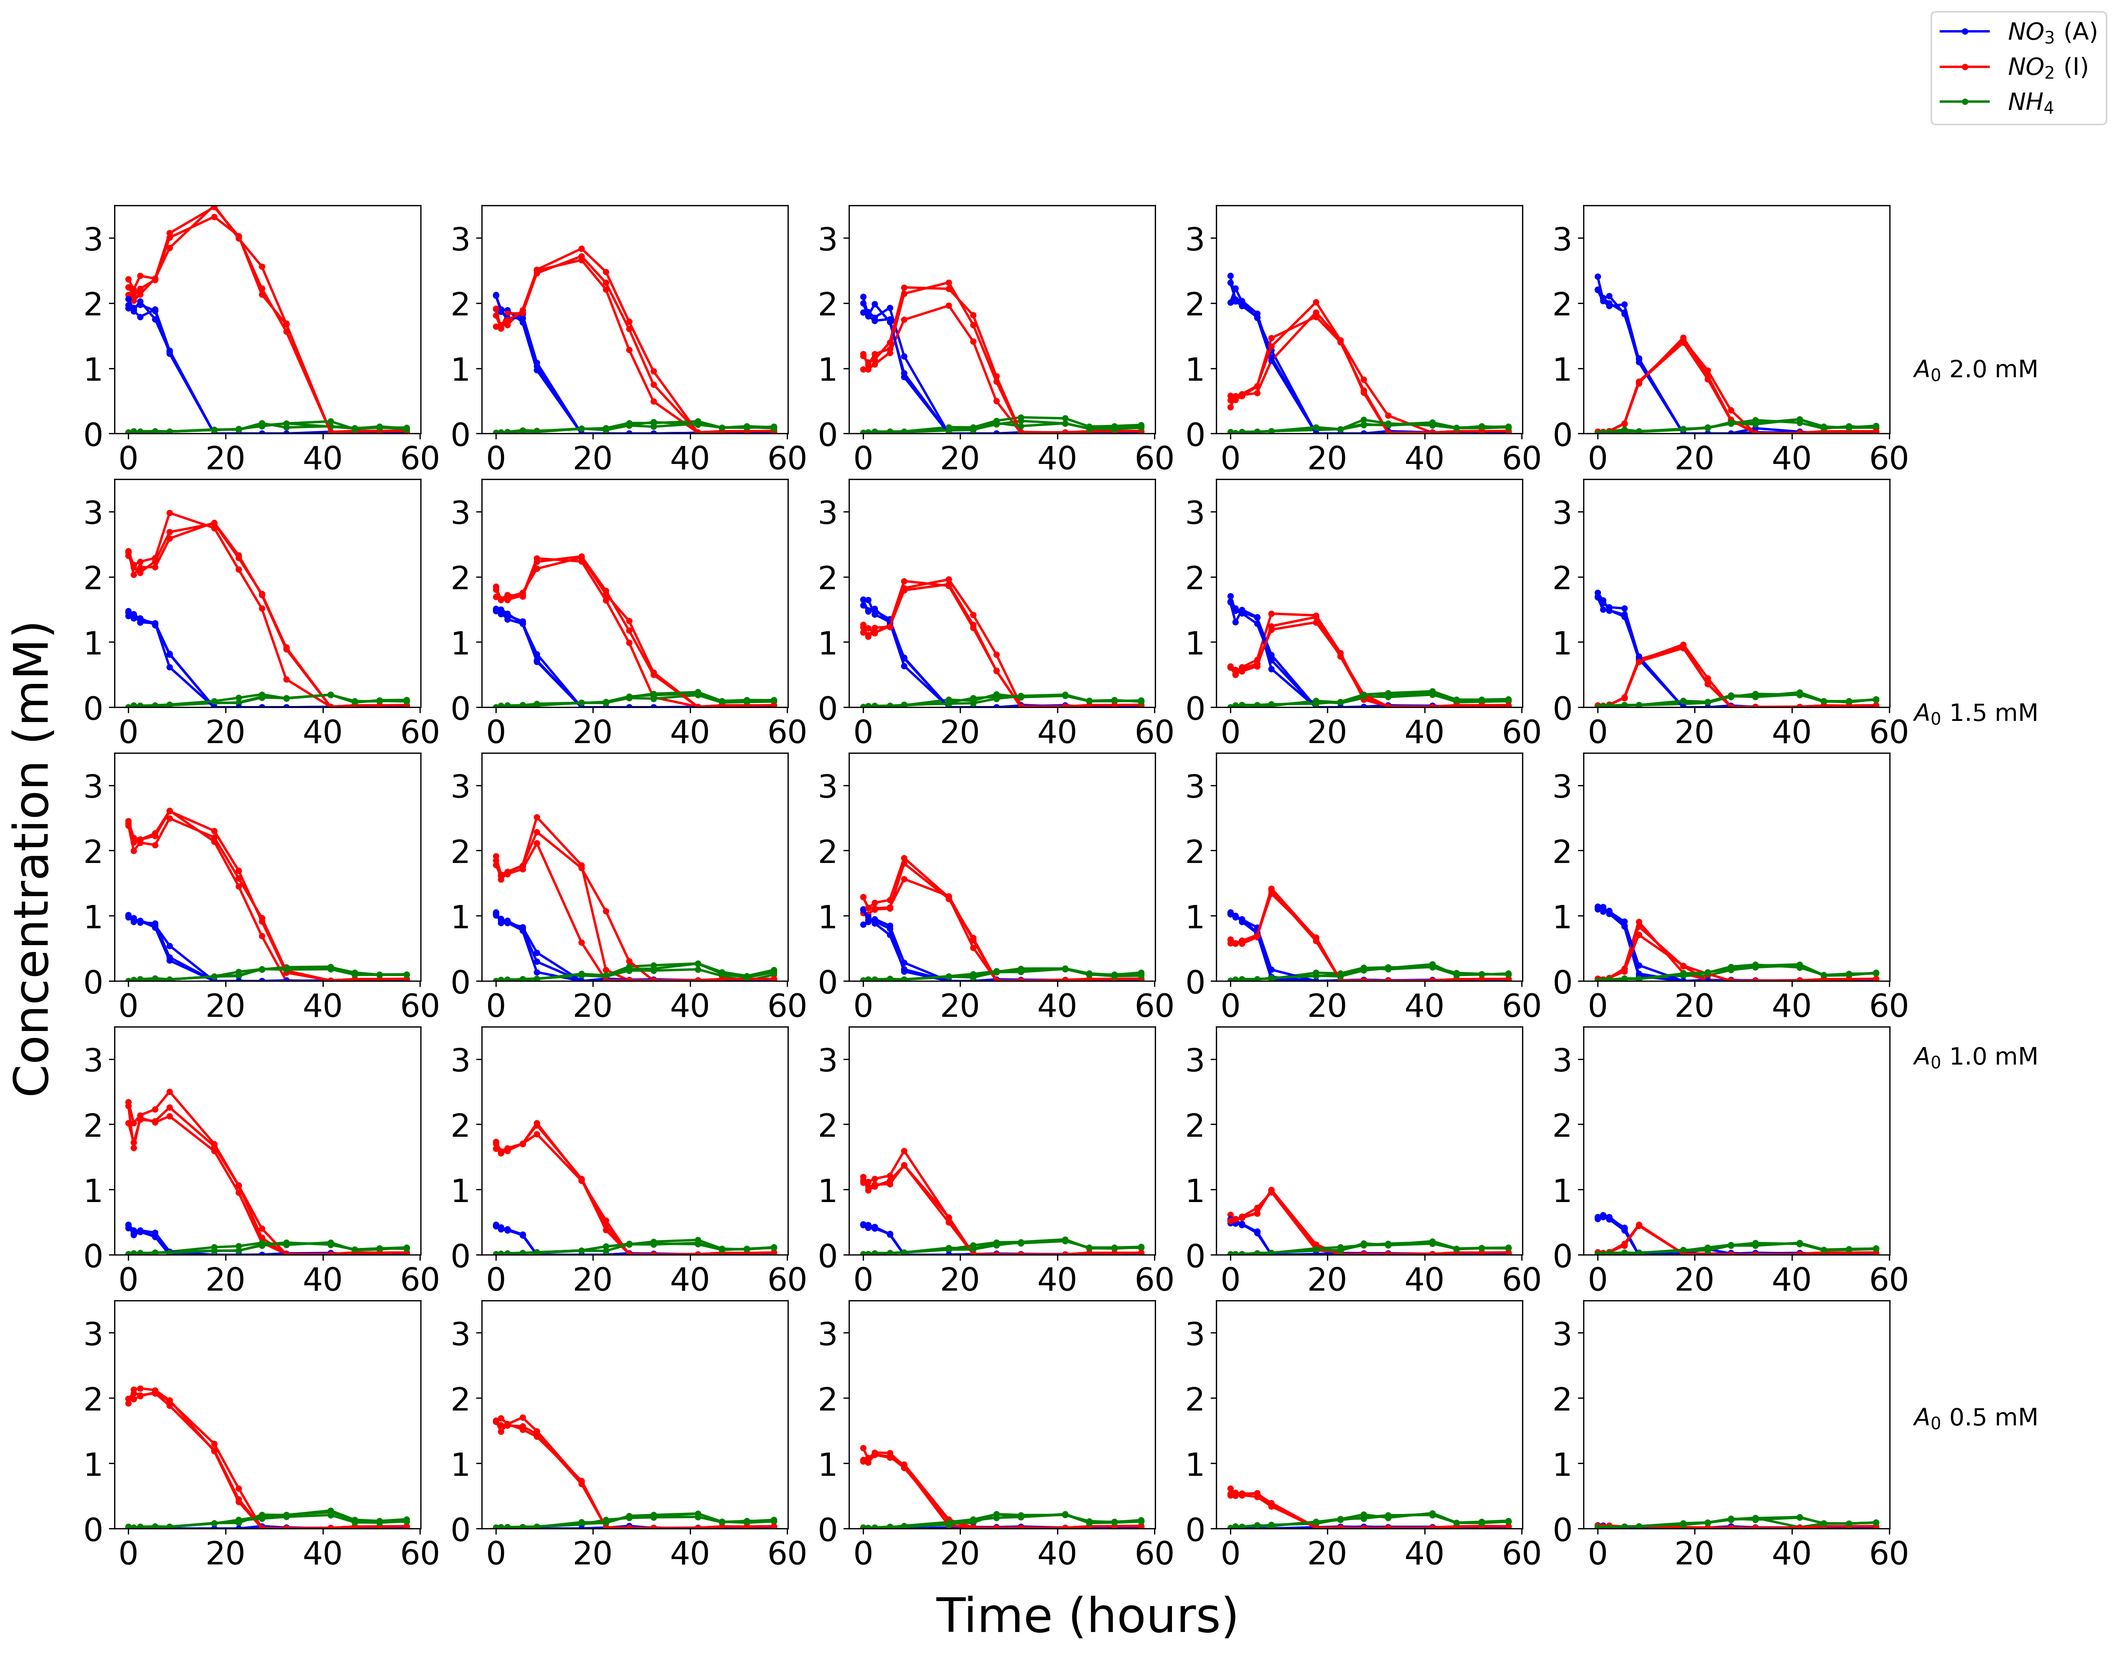
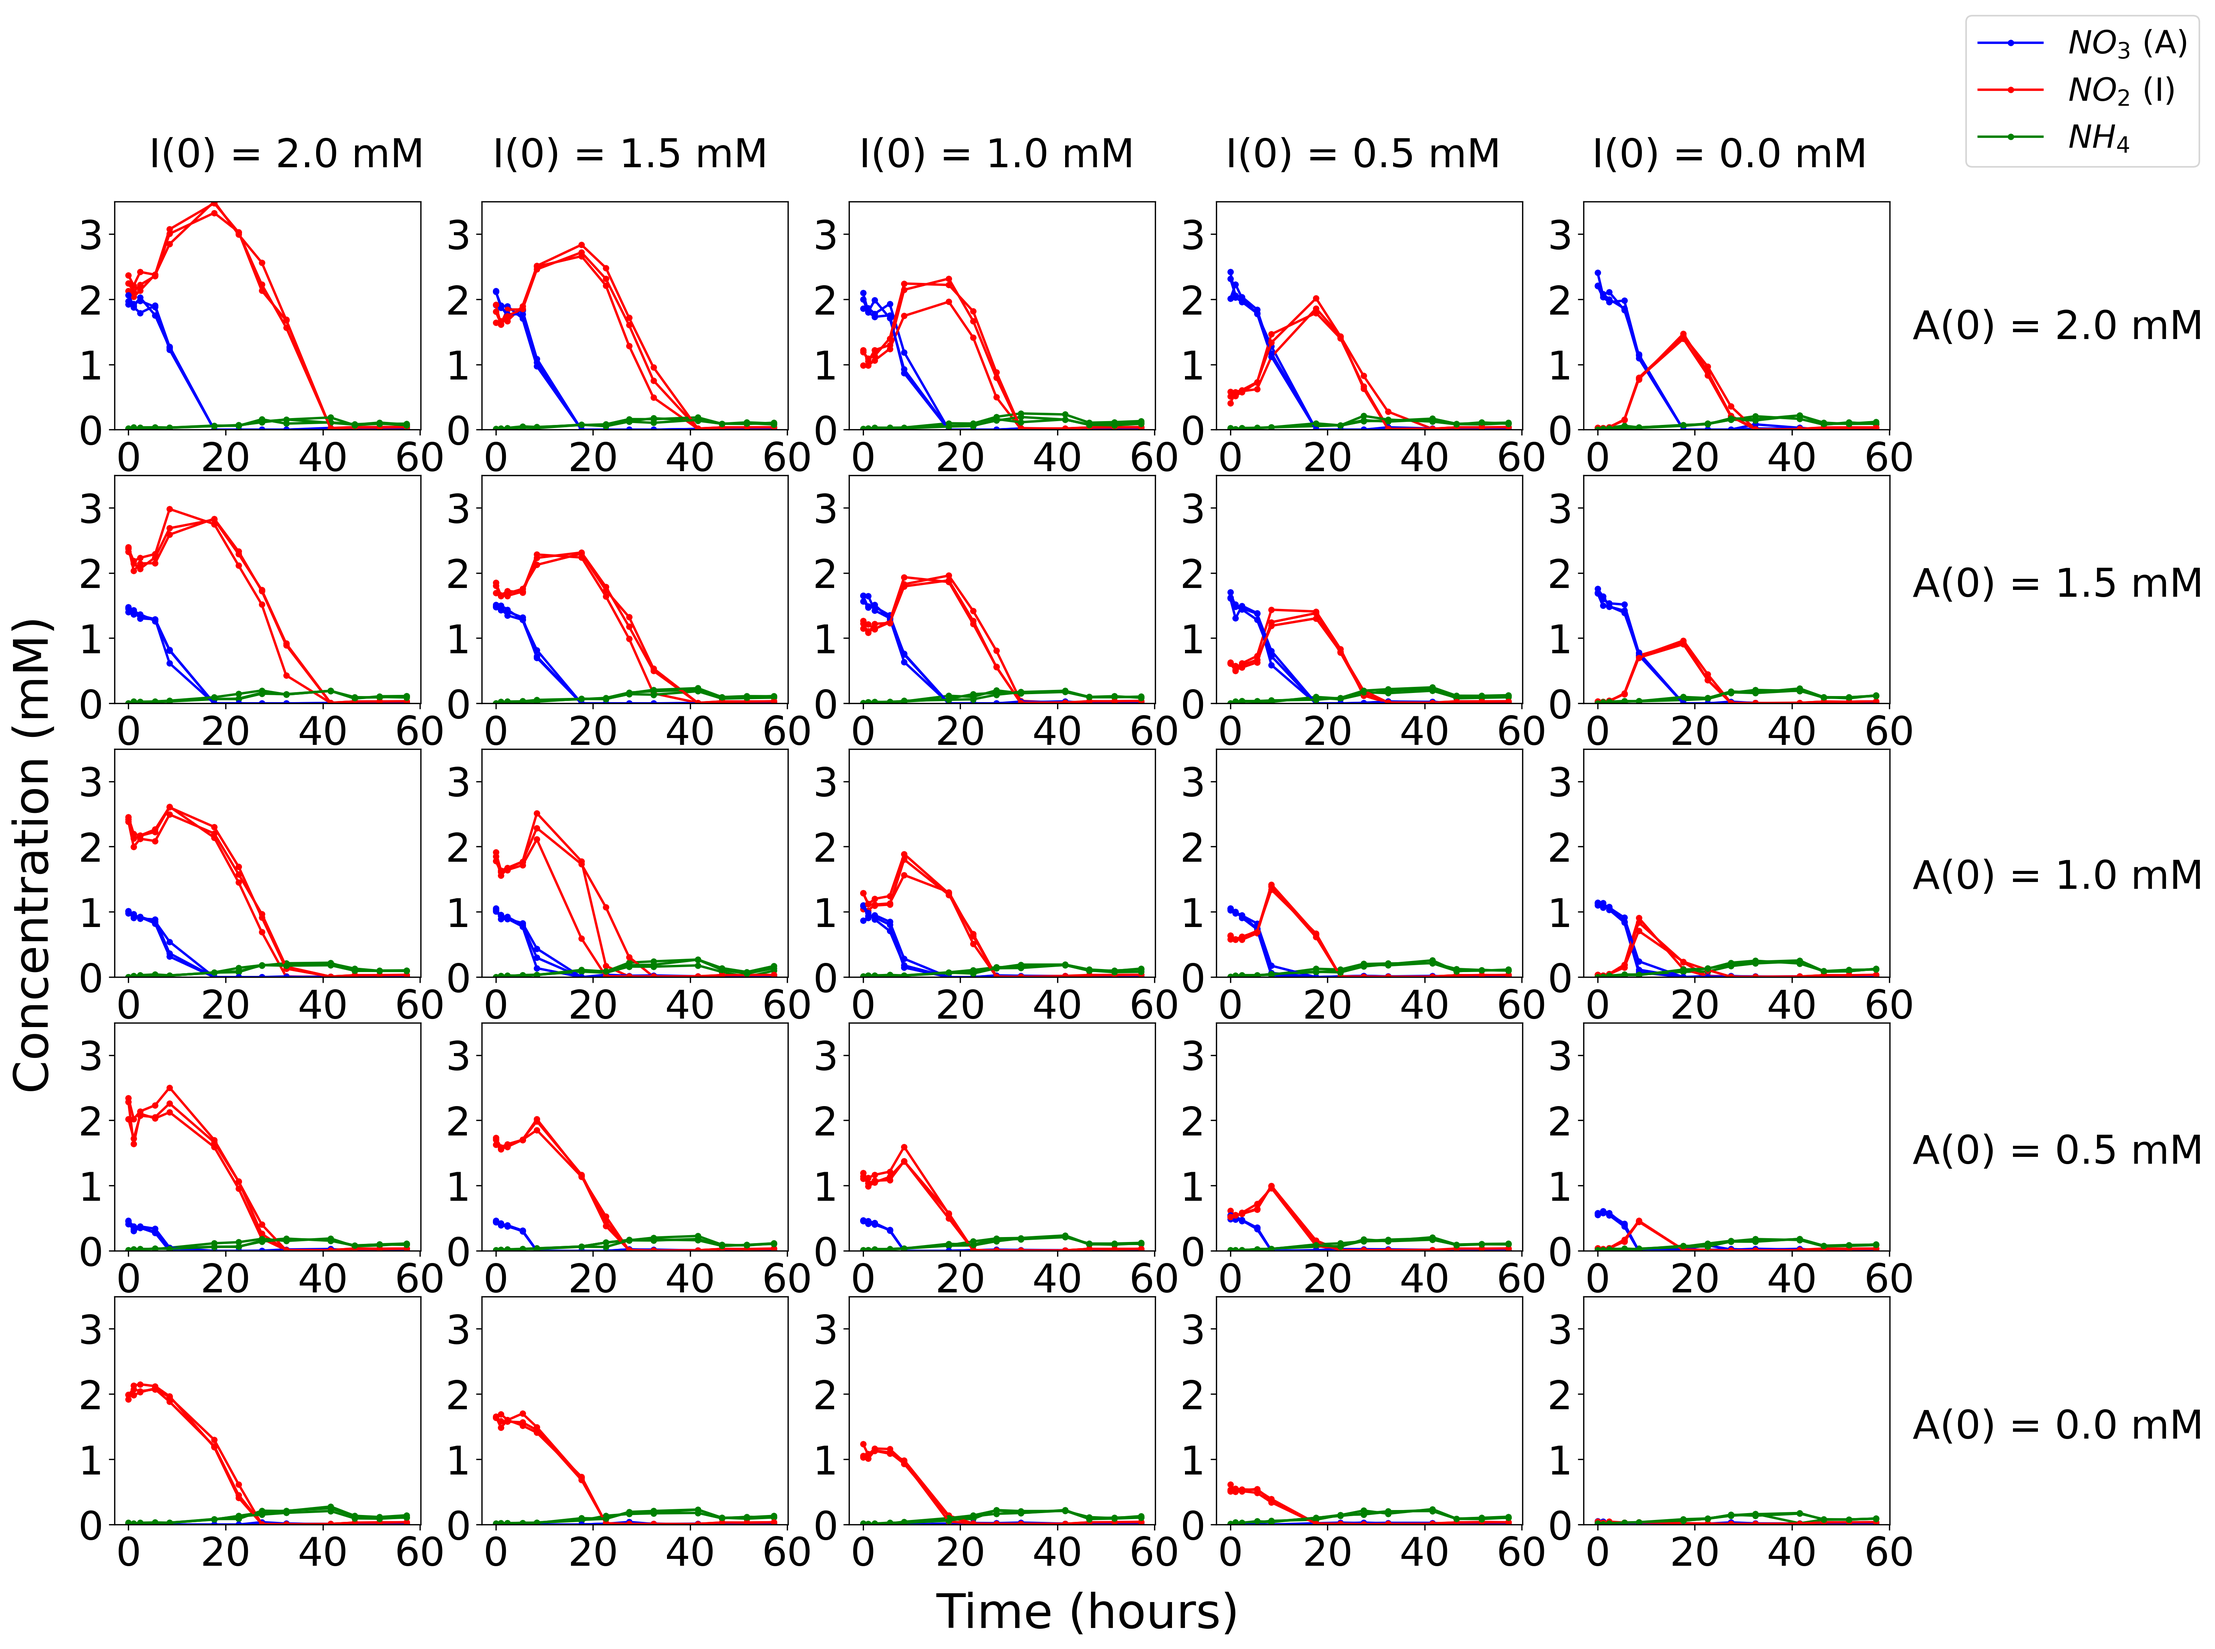
.

diff --git a/plot_no3_no2_nh4_chl01_20250414.py b/plot_no3_no2_nh4_chl01_20250414.py
@@ -12,46 +12,82 @@ no2_chl0_cons = pd.read_csv(f'concentrations/no2_chl0_cons.csv', index_col=0)
 no3_chl1_evap = pd.read_csv(f'concentrations/no3_chl1_evap.csv', index_col=0)
 no2_chl1_evap = pd.read_csv(f'concentrations/no2_chl1_evap.csv', index_col=0)
 no3_chl1_evap = pd.read_csv(f'concentrations/no3_chl1_evap.csv', index_col=0)
+nh4_chl1_evap = pd.read_csv(f'concentrations/nh4_chl1_evap.csv', index_col=0)
 no3_chl1_cons = pd.read_csv(f'concentrations/no3_chl1_cons.csv', index_col=0)
 no2_chl1_cons = pd.read_csv(f'concentrations/no2_chl1_cons.csv', index_col=0)
-times = no3_chl0_evap.columns.astype(float).tolist()
+times_chl0 = no3_chl0_evap.columns.astype(float).tolist()
+times_chl1 = no3_chl1_evap.columns.astype(float).tolist()
 
-# no3_no2_nh4_chl0 vs time, all conditions without carbon addition
-rows = ['A01', 'A02', 'A03', 'A04', 'A05', 'A06', 'A07', 'A08', 'A09', 'A10', 'A11', 'A12', 'B01', 'B02', 'B03', 'B04', 'B05', 'B06', 'B07', 'B08', 'B09', 'B10', 'B11', 'B12', 'C01', 'C02', 'C03', 'C04', 'C05', 'C06', 'C07', 'C08', 'C09', 'C10', 'C11', 'C12', 'D01', 'D02', 'D03', 'D04', 'D05', 'D06', 'D07', 'D08', 'D09', 'E01', 'E02', 'E03', 'E04', 'E05', 'E06', 'E07', 'E08', 'E09', 'E10', 'E11', 'E12', 'F01', 'F02', 'F03', 'F04', 'F05', 'F06', 'F07', 'F08', 'F09', 'F10', 'F11', 'F12', 'G01', 'G02', 'G03', 'G04', 'G05', 'G06']
-all_values = pd.concat([no3_chl0_evap.loc[rows], no2_chl0_evap.loc[rows], nh4_chl0_evap.loc[rows]])
-y_min = all_values.min().min()
-y_max = all_values.max().max()
+# # no3_no2_nh4_chl1 vs time, carbon addition
+# rows_carbon = ['G07', 'G08', 'G09', 'G10', 'G11', 'G12', 'H01', 'H02', 'H03', 'H04', 'H05', 'H06', 'D10', 'D11', 'D12']
+# rows_neg = ['A01', 'A02', 'A03', 'B01', 'B02', 'B03', 'F04', 'F05', 'F06', 'F10', 'F11', 'F12', 'G04', 'G05', 'G06']
+# num_rpl = 3
 
-num_rpl = 3
-num_col = 5
-num_row = int(np.ceil(len(rows) / num_col / num_rpl))
-fig, axes = plt.subplots(num_row, num_col, figsize=(4*num_row, 3*num_col))
-axes = axes.flatten()
-for i ,row in enumerate(rows):
-    ax = axes[i//num_rpl]
-    ax.plot(times, no3_chl0_evap.loc[row], 'b.-')
-    ax.plot(times, no2_chl0_evap.loc[row], 'r.-')
-    ax.plot(times, nh4_chl0_evap.loc[row], 'g.-')
-    ax.set_xticks([0, 20, 40, 60])
-    ax.tick_params(axis='x', labelsize=20)
-    ax.set_ylim(y_min, y_max)
-    ax.set_yticks([0, 1, 2, 3])
-    ax.tick_params(axis='y', labelsize=20)
-fig.text(0.55, 0.05, 'Time (hours)', ha='center', fontsize=30)
-fig.text(0.08, 0.5, 'Concentration (mM)', va='center', rotation='vertical', fontsize=30)
-fig.text(0.91, 0.78, f'$A_0$ 2.0 mM', fontsize=15)
-fig.text(0.91, 0.58, f'$A_0$ 1.5 mM', fontsize=15)
-fig.text(0.91, 0.38, f'$A_0$ 1.0 mM', fontsize=15)
-fig.text(0.91, 0.17, f'$A_0$ 0.5 mM', fontsize=15)
-fig.text(0.91, 0.95, f'$A_0$ 0.0 mM', fontsize=15)
-#fig.suptitle('Title', fontsize=20, y=0.95)    
-handles = [plt.Line2D([0], [0], color='b', marker='.', linestyle='-', label=f'$NO_3$ (A)'),
-            plt.Line2D([0], [0], color='r', marker='.', linestyle='-', label=f'$NO_2$ (I)'),
-            plt.Line2D([0], [0], color='g', marker='.', linestyle='-', label=f'$NH_4$')]
-fig.legend(handles=handles, loc='upper right', fontsize=15)
-filename = 'no3_no2_nh4_chl0_all.png'
-plt.savefig(f'plots/{filename}', dpi=300, bbox_inches='tight')
-print(f'Saved plots/{filename}')
+# for idx in np.arange(0, len(rows_carbon) // num_rpl):
+#     fig, ax = plt.subplots(1, 1, figsize=(8, 6))
+#     for row in rows_carbon[idx*num_rpl:(idx+1)*num_rpl]:
+#         ax.plot(times_chl1, no3_chl1_evap.loc[row], 'b.-')
+#         ax.plot(times_chl1, no2_chl1_evap.loc[row], 'r.-')
+#         ax.plot(times_chl1, nh4_chl1_evap.loc[row], 'g.-')
+#     for row in rows_neg[idx*num_rpl:(idx+1)*num_rpl]:
+#         ax.plot(times_chl1, no3_chl1_evap.loc[row], 'bo--', alpha=0.5)
+#         ax.plot(times_chl1, no2_chl1_evap.loc[row], 'ro--', alpha=0.5)
+#         ax.plot(times_chl1, nh4_chl1_evap.loc[row], 'go--', alpha=0.5)
+#     ax.set_xlabel('Time (hours)', fontsize=15)
+#     ax.set_ylabel('Concentration (mM)', fontsize=15)
+#     ax.tick_params(axis='x', labelsize=15)
+#     ax.tick_params(axis='y', labelsize=15)
+#     handles = [plt.Line2D([0], [0], color='b', marker='.', linestyle='-', label=f'$NO_3$ (A)'),
+#             plt.Line2D([0], [0], color='r', marker='.', linestyle='-', label=f'$NO_2$ (I)'),
+#             plt.Line2D([0], [0], color='g', marker='.', linestyle='-', label=f'$NH_4$')]
+#     ax.legend(handles=handles, loc='upper right', fontsize=12)
+#     #plt.show()
+#     filename = f'no3_no2_nh4_chl1_carbon{idx}.png'
+#     plt.savefig(f'plots/{filename}', dpi=300, bbox_inches='tight')
+#     print(f'Saved {filename}')
+
+
+# # no3_no2_nh4_chl0 vs time, all conditions without carbon addition
+# rows = ['A01', 'A02', 'A03', 'A04', 'A05', 'A06', 'A07', 'A08', 'A09', 'A10', 'A11', 'A12', 'B01', 'B02', 'B03', 'B04', 'B05', 'B06', 'B07', 'B08', 'B09', 'B10', 'B11', 'B12', 'C01', 'C02', 'C03', 'C04', 'C05', 'C06', 'C07', 'C08', 'C09', 'C10', 'C11', 'C12', 'D01', 'D02', 'D03', 'D04', 'D05', 'D06', 'D07', 'D08', 'D09', 'E01', 'E02', 'E03', 'E04', 'E05', 'E06', 'E07', 'E08', 'E09', 'E10', 'E11', 'E12', 'F01', 'F02', 'F03', 'F04', 'F05', 'F06', 'F07', 'F08', 'F09', 'F10', 'F11', 'F12', 'G01', 'G02', 'G03', 'G04', 'G05', 'G06']
+# all_values = pd.concat([no3_chl0_evap.loc[rows], no2_chl0_evap.loc[rows], nh4_chl0_evap.loc[rows]])
+# y_min = all_values.min().min()
+# y_max = all_values.max().max()
+
+# num_rpl = 3
+# num_col = 5
+# num_row = int(np.ceil(len(rows) / num_col / num_rpl))
+# fig, axes = plt.subplots(num_row, num_col, figsize=(4*num_row, 3*num_col))
+# axes = axes.flatten()
+# for i ,row in enumerate(rows):
+#     ax = axes[i//num_rpl]
+#     ax.plot(times_chl0, no3_chl0_evap.loc[row], 'b.-')
+#     ax.plot(times_chl0, no2_chl0_evap.loc[row], 'r.-')
+#     ax.plot(times_chl0, nh4_chl0_evap.loc[row], 'g.-')
+#     ax.set_xticks([0, 20, 40, 60])
+#     ax.tick_params(axis='x', labelsize=25)
+#     ax.set_ylim(y_min, y_max)
+#     ax.set_yticks([0, 1, 2, 3])
+#     ax.tick_params(axis='y', labelsize=25)
+# fig.text(0.55, 0.05, 'Time (hours)', ha='center', fontsize=30)
+# fig.text(0.14, 0.9, f'I(0) = 2.0 mM', fontsize=25)
+# fig.text(0.29, 0.9, f'I(0) = 1.5 mM', fontsize=25)
+# fig.text(0.45, 0.9, f'I(0) = 1.0 mM', fontsize=25)
+# fig.text(0.61, 0.9, f'I(0) = 0.5 mM', fontsize=25)
+# fig.text(0.77, 0.9, f'I(0) = 0.0 mM', fontsize=25)
+# fig.text(0.08, 0.5, 'Concentration (mM)', va='center', rotation='vertical', fontsize=30)
+# fig.text(0.91, 0.80, f'A(0) = 2.0 mM', fontsize=25)
+# fig.text(0.91, 0.65, f'A(0) = 1.5 mM', fontsize=25)
+# fig.text(0.91, 0.48, f'A(0) = 1.0 mM', fontsize=25)
+# fig.text(0.91, 0.32, f'A(0) = 0.5 mM', fontsize=25)
+# fig.text(0.91, 0.16, f'A(0) = 0.0 mM', fontsize=25)
+# #fig.suptitle('Title', fontsize=20, y=0.95)    
+# handles = [plt.Line2D([0], [0], color='b', marker='.', linestyle='-', label=f'$NO_3$ (A)'),
+#             plt.Line2D([0], [0], color='r', marker='.', linestyle='-', label=f'$NO_2$ (I)'),
+#             plt.Line2D([0], [0], color='g', marker='.', linestyle='-', label=f'$NH_4$')]
+# fig.legend(handles=handles, loc='upper right', fontsize=20)
+# filename = 'no3_no2_nh4_chl0_all.png'
+# plt.savefig(f'plots/{filename}', dpi=300, bbox_inches='tight')
+# print(f'Saved plots/{filename}')
 
 
 # # no3_no2_nh4 vs time, one condition
@@ -59,9 +95,9 @@ print(f'Saved plots/{filename}')
 # fig, axes = plt.subplots(1, 1, figsize=(8, 6))
 # ax = axes
 # for row in rows:
-#     ax.plot(times, no3_chl0_evap.loc[row], 'b.-')
-#     ax.plot(times, no2_chl0_evap.loc[row], 'r.-')
-#     ax.plot(times, nh4_chl0_evap.loc[row], 'g.-')
+#     ax.plot(times_chl0, no3_chl0_evap.loc[row], 'b.-')
+#     ax.plot(times_chl0, no2_chl0_evap.loc[row], 'r.-')
+#     ax.plot(times_chl0, nh4_chl0_evap.loc[row], 'g.-')
 # ax.set_xlabel('Time (hours)', fontsize=15)
 # ax.set_ylabel('Concentration (mM)', fontsize=15)
 # ax.tick_params(axis='x', labelsize=15)
